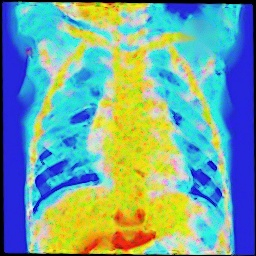
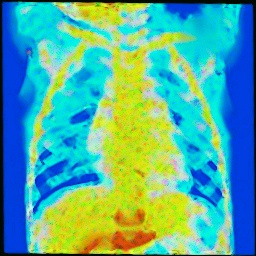
update - imrpoved colour (.95 acc)

diff --git a/main.py b/main.py
@@ -35,7 +35,6 @@ def fix_perspective(image):
 
     # laplaciam edge detection
     mask = cv2.Laplacian(mask, cv2.CV_8U, ksize=7)
-    # mask = cv2.Canny(mask, 100, 300)
 
     # extract contours (only need extreme outer contours)
     contours, _ = cv2.findContours(mask, mode = cv2.RETR_EXTERNAL, method = cv2.CHAIN_APPROX_SIMPLE)
@@ -45,7 +44,7 @@ def fix_perspective(image):
     square_mask = np.zeros((height, width), np.uint8)
     cv2.drawContours(square_mask, contours, -1, (255, 255, 255), 1)
 
-    # get 4 corners of xray image
+    # get 4 corners of xray image using Shi-Tomasi method (through OpenCV)
     corners = cv2.goodFeaturesToTrack(square_mask, 4, 0.01, 10)
     corners = corners.reshape(4, 2)
 
@@ -348,179 +347,33 @@ class Criminisi_Inpainter():
             dest_patch[1][0]:dest_patch[1][1]+1
         ] = data
 
-def create_band_pass_filter(width, height, radius_small, radius_big):
-    '''
-    from amir github
-    '''
-    assert(radius_big > radius_small)
-
-    bp_filter = np.ones((height, width, 2), np.float32)
-    cv2.circle(bp_filter, (int(width / 2), int(height / 2)),
-               radius_big, (0, 0, 0), thickness=-1)
-
-    cv2.circle(bp_filter, (int(width / 2), int(height / 2)),
-               radius_small, (1, 1, 1), thickness=-1)
-
-    return bp_filter
-
-def create_butterworth_high_pass_filter(width, height, d, n):
-    hp_filter = np.zeros((height, width, 2), np.float32)
-    centre = (width / 2, height / 2)
-
-    for i in range(0, hp_filter.shape[1]):  # image width
-        for j in range(0, hp_filter.shape[0]):  # image height
-            radius = max(1, math.sqrt(math.pow((i - centre[0]), 2.0) + math.pow((j - centre[1]), 2.0)))
-            hp_filter[j, i] = 1 / (1 + math.pow((d / radius), (2 * n)))
-    return hp_filter
-
-def create_butterworth_low_pass_filter(width, height, d, n):
-    lp_filter = np.zeros((height, width, 2), np.float32)
-    centre = (width / 2, height / 2)
-
-    for i in range(0, lp_filter.shape[1]):  # image width
-        for j in range(0, lp_filter.shape[0]):  # image height
-            radius = max(1, math.sqrt(math.pow((i - centre[0]), 2.0) + math.pow((j - centre[1]), 2.0)))
-            lp_filter[j, i] = 1 / (1 + math.pow((radius / d), (2 * n)))
-    return lp_filter
-
-def band_pass(grey_img, radius_small, radius_big):
-    '''
-    from amir github
-    '''
-    assert(radius_big > radius_small)
-    height, width = grey_img.shape[:2]
-
-    # set up optimized DFT settings
-    nheight = cv2.getOptimalDFTSize(height)
-    nwidth = cv2.getOptimalDFTSize(width)
-
-    # perform the DFT and get complex output
-    dft = cv2.dft(np.float32(grey_img), flags=cv2.DFT_COMPLEX_OUTPUT)
-
-    dft_shifted = np.fft.fftshift(dft)
-
-    # do the filtering
-    # bp_filter = create_band_pass_filter(nwidth, nheight, radius_small, radius_big)
-    bp_filter = create_butterworth_low_pass_filter(nwidth, nheight, radius_big, 2)
-
-    dft_filtered = cv2.mulSpectrums(dft_shifted, bp_filter, flags=0)
-
-    inv_dft = np.fft.fftshift(dft_filtered)
-
-    filtered_img = cv2.dft(inv_dft, flags=cv2.DFT_INVERSE)
-
-    # normalized the filtered image into 0 -> 255 (8-bit grayscale) so we
-    # can see the output
-    min_val, max_val, min_loc, max_loc = cv2.minMaxLoc(filtered_img[:, :, 0])
-    filtered_img_normalised = filtered_img[:, :, 0] * (
-        1.0 / (max_val - min_val)) + ((-min_val) / (max_val - min_val))
-    filtered_img_normalised = np.uint8(filtered_img_normalised * 255)
-
-    # calculate the magnitude spectrum and log transform + scale it for
-    # visualization
-    magnitude_spectrum = cv2.magnitude(dft_filtered[:, :, 0], dft_filtered[:, :, 1])
-    magnitude_spectrum += .4 # avoid log(0)
-    magnitude_spectrum = np.log(magnitude_spectrum)
-    
-    # create a 8-bit image to put the magnitude spectrum into
-    magnitude_spectrum_normalised = np.zeros((nheight, nwidth, 1), np.uint8)
-
-    # normalized the magnitude spectrum into 0 -> 255 (8-bit grayscale) so
-    # we can see the output
-    cv2.normalize(
-            np.uint8(magnitude_spectrum),
-            magnitude_spectrum_normalised,
-            alpha=0,
-            beta=255,
-            norm_type=cv2.NORM_MINMAX)
-
-    return filtered_img_normalised, magnitude_spectrum_normalised
-
 # Main function
 def process_image(image):
     '''
     Process xray image. Keeps same resolution.
     '''
-    # fix warped perspective
+    # STEP 1 - unwarp perspective ===========================
     image = fix_perspective(image)
     # image = cv2.imread('sample-xray98.png', cv2.IMREAD_COLOR)
         
-    # fix colour channel imbalance (green sections are white)
-    image = cv2.cvtColor(image, cv2.COLOR_BGR2HSV)
-    h, s, v = cv2.split(image)
+    hsv_image = cv2.cvtColor(image, cv2.COLOR_BGR2HSV)
+    h, s, v = cv2.split(hsv_image)
 
-    # v, mag_spec = band_pass(v, 10, 50)
+    # plot hue
+    if isTesting:
+        plt.figure()
+        plt.grid()
+        hist = cv2.calcHist([h], [0], None, [200], [0, 200])
+        plt.plot(hist)
+        plt.xlim([0, 180])
+        plt.ylim([0, 7000])
+        plt.xticks(np.arange(0, 180, 20), rotation=45)
+        plt.savefig('hist_hue_BEFORE.png')
 
-    # # plot hue
-    # if isTesting:
-    #     plt.figure()
-    #     plt.grid()
-    #     hist = cv2.calcHist([h], [0], None, [200], [0, 200])
-    #     plt.plot(hist)
-    #     plt.xlim([0, 180])
-    #     plt.ylim([0, 7000])
-    #     plt.xticks(np.arange(0, 180, 20), rotation=45)
-    #     plt.savefig('histogram_hue.png')
-
-    # # isolate green hue range
-    # # hue_range = cv2.inRange(h, 43, 80)
-
-
-    # # morph_close to join up green regions
-    # # kernel = np.ones((5, 5), np.uint8)
-    # # hue_range = cv2.morphologyEx(hue_range, cv2.MORPH_CLOSE, kernel, iterations=2)
-
-    # # clip so all still green
-    # # hue_range.clip(43, 80)
-
-    # # v[hue_range == 0] = 0 # to see green elements only
-    # # h[hue_range > 0] = 1
-
-    # gamma = 0.9
-    # lookUpTable = np.empty((1,256), np.uint8)
-    # for i in range(256):
-    #     lookUpTable[0,i] = np.clip(pow(i / 255.0, gamma) * 255.0, 0, 255)
-    
-    # # s[hue_range > 0] += 2 # so that it is not 0 or 1
-    # # s = cv2.LUT(s, lookUpTable)
-
-    image = cv2.merge((h, s, v))
-    image = cv2.cvtColor(image, cv2.COLOR_HSV2BGR)
-
-
+    # STEP 2 - inpaint ====================================
 
     # greyscale
     grey_img = cv2.cvtColor(image, cv2.COLOR_BGR2GRAY)
-
-    # bleached = cv2.inRange(grey_img, 215,225)
-
-    # image_hsv = cv2.cvtColor(image, cv2.COLOR_BGR2HSV)
-    # h, s, v = cv2.split(image_hsv)
-
-    # white_pix = np.argwhere(bleached > 0)
-
-    # # get normal distribution between 40 and 80
-    # mean = 60
-    # std = 10
-    # h[bleached > 0] = np.random.normal(mean, std, len(white_pix))
-
-    # image = cv2.merge((h, s, v))
-    # image = cv2.cvtColor(image, cv2.COLOR_HSV2BGR)
-
-    # # plot hue
-    # if isTesting:
-    #     plt.figure()
-    #     plt.grid()
-    #     hist = cv2.calcHist([h], [0], None, [200], [0, 200])
-    #     plt.plot(hist)
-    #     plt.xlim([0, 180])
-    #     plt.ylim([0, 7000])
-    #     plt.xticks(np.arange(0, 180, 20), rotation=45)
-    #     plt.savefig('hist_hue.png')
-
-    # # return image
-
-    # ===========================
 
     # create mask of missing region for inpainting
     inpainting_mask = cv2.inRange(grey_img, 0, 10)
@@ -551,12 +404,16 @@ def process_image(image):
     # image = inpainter.inpaint()
     image = cv2.inpaint(image, inpainting_mask, 3, cv2.INPAINT_TELEA)
 
+    # STEP 3 - denoising ==================================
+
     ## remove s&p
     image = cv2.medianBlur(image, 3)
 
     ## remove gaussian noise
 
-    # nl means
+    # nl means (converts to lab for filtering)
+    # h corresponds to filter strength in l channel
+    # hColor corresponds to filter strength in a and b channels
     image = cv2.fastNlMeansDenoisingColored(
         image, None, h=7, hColor=1,
         templateWindowSize=9, searchWindowSize=31)
@@ -570,60 +427,48 @@ def process_image(image):
     #     image, d=9, sigmaColor=75, sigmaSpace=75,
     #     borderType=cv2.BORDER_DEFAULT)
 
-    return image
+    # STEP 4 - Colour =====================================
 
-    # ===========================
-
-    # convert to l*a*b* colour space
+    # RGB --> LAB
+    # l = lightness, a = green-->red, b = blue-->yellow
     image = cv2.cvtColor(image, cv2.COLOR_BGR2LAB)
     l, a, b = cv2.split(image)
 
-    gamma = 1.2
+    gamma = .99
     lookUpTable = np.empty((1,256), np.uint8)
     for i in range(256):
         lookUpTable[0,i] = np.clip(pow(i / 255.0, gamma) * 255.0, 0, 255)
     
     # l = cv2.LUT(l, lookUpTable)
 
+    # give more weight to green (from red) (-ve = more weight to red)
+    red_weight = 0.91
+    yel_weight = 1
+    a = np.clip(a * red_weight, 0, 255).astype(np.uint8)
+    b = np.clip(b * yel_weight, 0, 255).astype(np.uint8)
+
     # hist eq on l channel
     tile_size = 4
-    clahe = cv2.createCLAHE(clipLimit=2.6, # b/t 2.3-3.2
+    clahe = cv2.createCLAHE(clipLimit=3.15, # b/t 2.3-3.2
                             tileGridSize=(tile_size, tile_size))
     # l = clahe.apply(l)
 
-    # put channels back together
+    # LAB to BGR
     image = cv2.merge((l, a, b))
-
-    # plot lab channels
-    # plt.figure()
-    # for i in range(3):
-    #     hist = cv2.calcHist([image], [i], None, [256], [0, 256])
-    #     plt.plot(hist)
-    #     plt.xlim([1, 256])
-    # plt.legend(['l', 'a', 'b'])
-    # plt.savefig('histogram_lab.png')
-
-    # convert back to BGR
     image = cv2.cvtColor(image, cv2.COLOR_LAB2BGR)
 
-    b, g, r = cv2.split(image)
+    hsv_image = cv2.cvtColor(image, cv2.COLOR_BGR2HSV)
+    h, s, v = cv2.split(hsv_image)
 
-    tile_size = 4
-    clahe = cv2.createCLAHE(clipLimit=2.0, tileGridSize=(tile_size, tile_size))
-    # b = clahe.apply(b)
-    # r = clahe.apply(r)
-
-    image = cv2.merge((b, g, r))
-
-    # show histogram of bgr channels
-    # plt.figure()
-    # colours = ['b', 'g', 'r']
-    # for i in range(3):
-    #     hist = cv2.calcHist([image], [i], None, [256], [1, 256])
-    #     plt.plot(hist, color=colours[i])
-    #     plt.xlim([1, 256])
-    # plt.legend(['b', 'g', 'r'])
-    # plt.savefig('histogram_rgb.png')
+    if isTesting:
+        plt.figure()
+        plt.grid()
+        hist = cv2.calcHist([h], [0], None, [200], [0, 200])
+        plt.plot(hist)
+        plt.xlim([0, 180])
+        plt.ylim([0, 7000])
+        plt.xticks(np.arange(0, 180, 20), rotation=45)
+        plt.savefig('hist_hue_AFTER.png')
 
     return image
 
@@ -634,16 +479,19 @@ healthy_1 = 'im001-healthy.jpg'
 healthy_4 = 'im004-healthy.jpg' # example on gc
 healthy_12 = 'im012-healthy.jpg' # small missing region
 healthy_31 = 'im031-healthy.jpg' # sample image
-healthy_42 = 'im042-healthy.jpg' # bad criminisi
 pneumonia_53 = 'im053-pneumonia.jpg'
 pneumonia_56 = 'im056-pneumonia.jpg' # bad contrast
 pneumonia_74 = 'im074-pneumonia.jpg' # hard to see red R
+pneumonia_97 = 'im097-pneumonia.jpg'
 pneumonia_98 = 'im098-pneumonia.jpg' # sample image
 pneumonia_100 = 'im100-pneumonia.jpg'
 
-img_name = pneumonia_98
+img_name = pneumonia_97
 # TESTING ======================================================================
 start_time = time.time()
+
+# set start point
+start_from = None
 
 # load images & process
 for tag in os.listdir(path_to_images):
@@ -654,6 +502,12 @@ for tag in os.listdir(path_to_images):
     # FOR TEST
     if tag != img_name and isTesting:
         continue
+
+    # skip tags up to start_from. start_from = None to not skip any.
+    if tag != start_from and start_from != None and not isTesting:
+        print(tag + " skipped.")
+        continue
+    start_from = None
 
     img_path = os.path.join(path_to_images, tag)
     img_loaded = cv2.imread(img_path, cv2.IMREAD_COLOR)

diff --git a/helper-functions.py b/helper-functions.py
@@ -475,16 +475,6 @@ def create_butterworth_low_pass_filter(width, height, d, n):
             lp_filter[j, i] = 1 / (1 + math.pow((radius / d), (2 * n)))
     return lp_filter
 
-def create_butterworth_bp_filter(width, height, n, d0, d1):
-    bp_filter = np.zeros((height, width, 2), np.float32)
-    centre = (width / 2, height / 2)
-
-    for i in range(0, bp_filter.shape[1]):  # image width
-        for j in range(0, bp_filter.shape[0]):  # image height
-            break
-
-    return bp_filter
-
 def band_pass(grey_img, radius_small, radius_big):
     '''
     from amir github
@@ -502,7 +492,8 @@ def band_pass(grey_img, radius_small, radius_big):
     dft_shifted = np.fft.fftshift(dft)
 
     # do the filtering
-    bp_filter = create_band_pass_filter(nwidth, nheight, radius_small, radius_big)
+    # bp_filter = create_band_pass_filter(nwidth, nheight, radius_small, radius_big)
+    bp_filter = create_butterworth_low_pass_filter(nwidth, nheight, radius_big, 2)
 
     dft_filtered = cv2.mulSpectrums(dft_shifted, bp_filter, flags=0)
 
@@ -512,8 +503,7 @@ def band_pass(grey_img, radius_small, radius_big):
 
     # normalized the filtered image into 0 -> 255 (8-bit grayscale) so we
     # can see the output
-    min_val, max_val, min_loc, max_loc = \
-        cv2.minMaxLoc(filtered_img[:, :, 0])
+    min_val, max_val, min_loc, max_loc = cv2.minMaxLoc(filtered_img[:, :, 0])
     filtered_img_normalised = filtered_img[:, :, 0] * (
         1.0 / (max_val - min_val)) + ((-min_val) / (max_val - min_val))
     filtered_img_normalised = np.uint8(filtered_img_normalised * 255)
@@ -537,7 +527,6 @@ def band_pass(grey_img, radius_small, radius_big):
             norm_type=cv2.NORM_MINMAX)
 
     return filtered_img_normalised, magnitude_spectrum_normalised
-
 
 # Main function
 def process_image(image):
